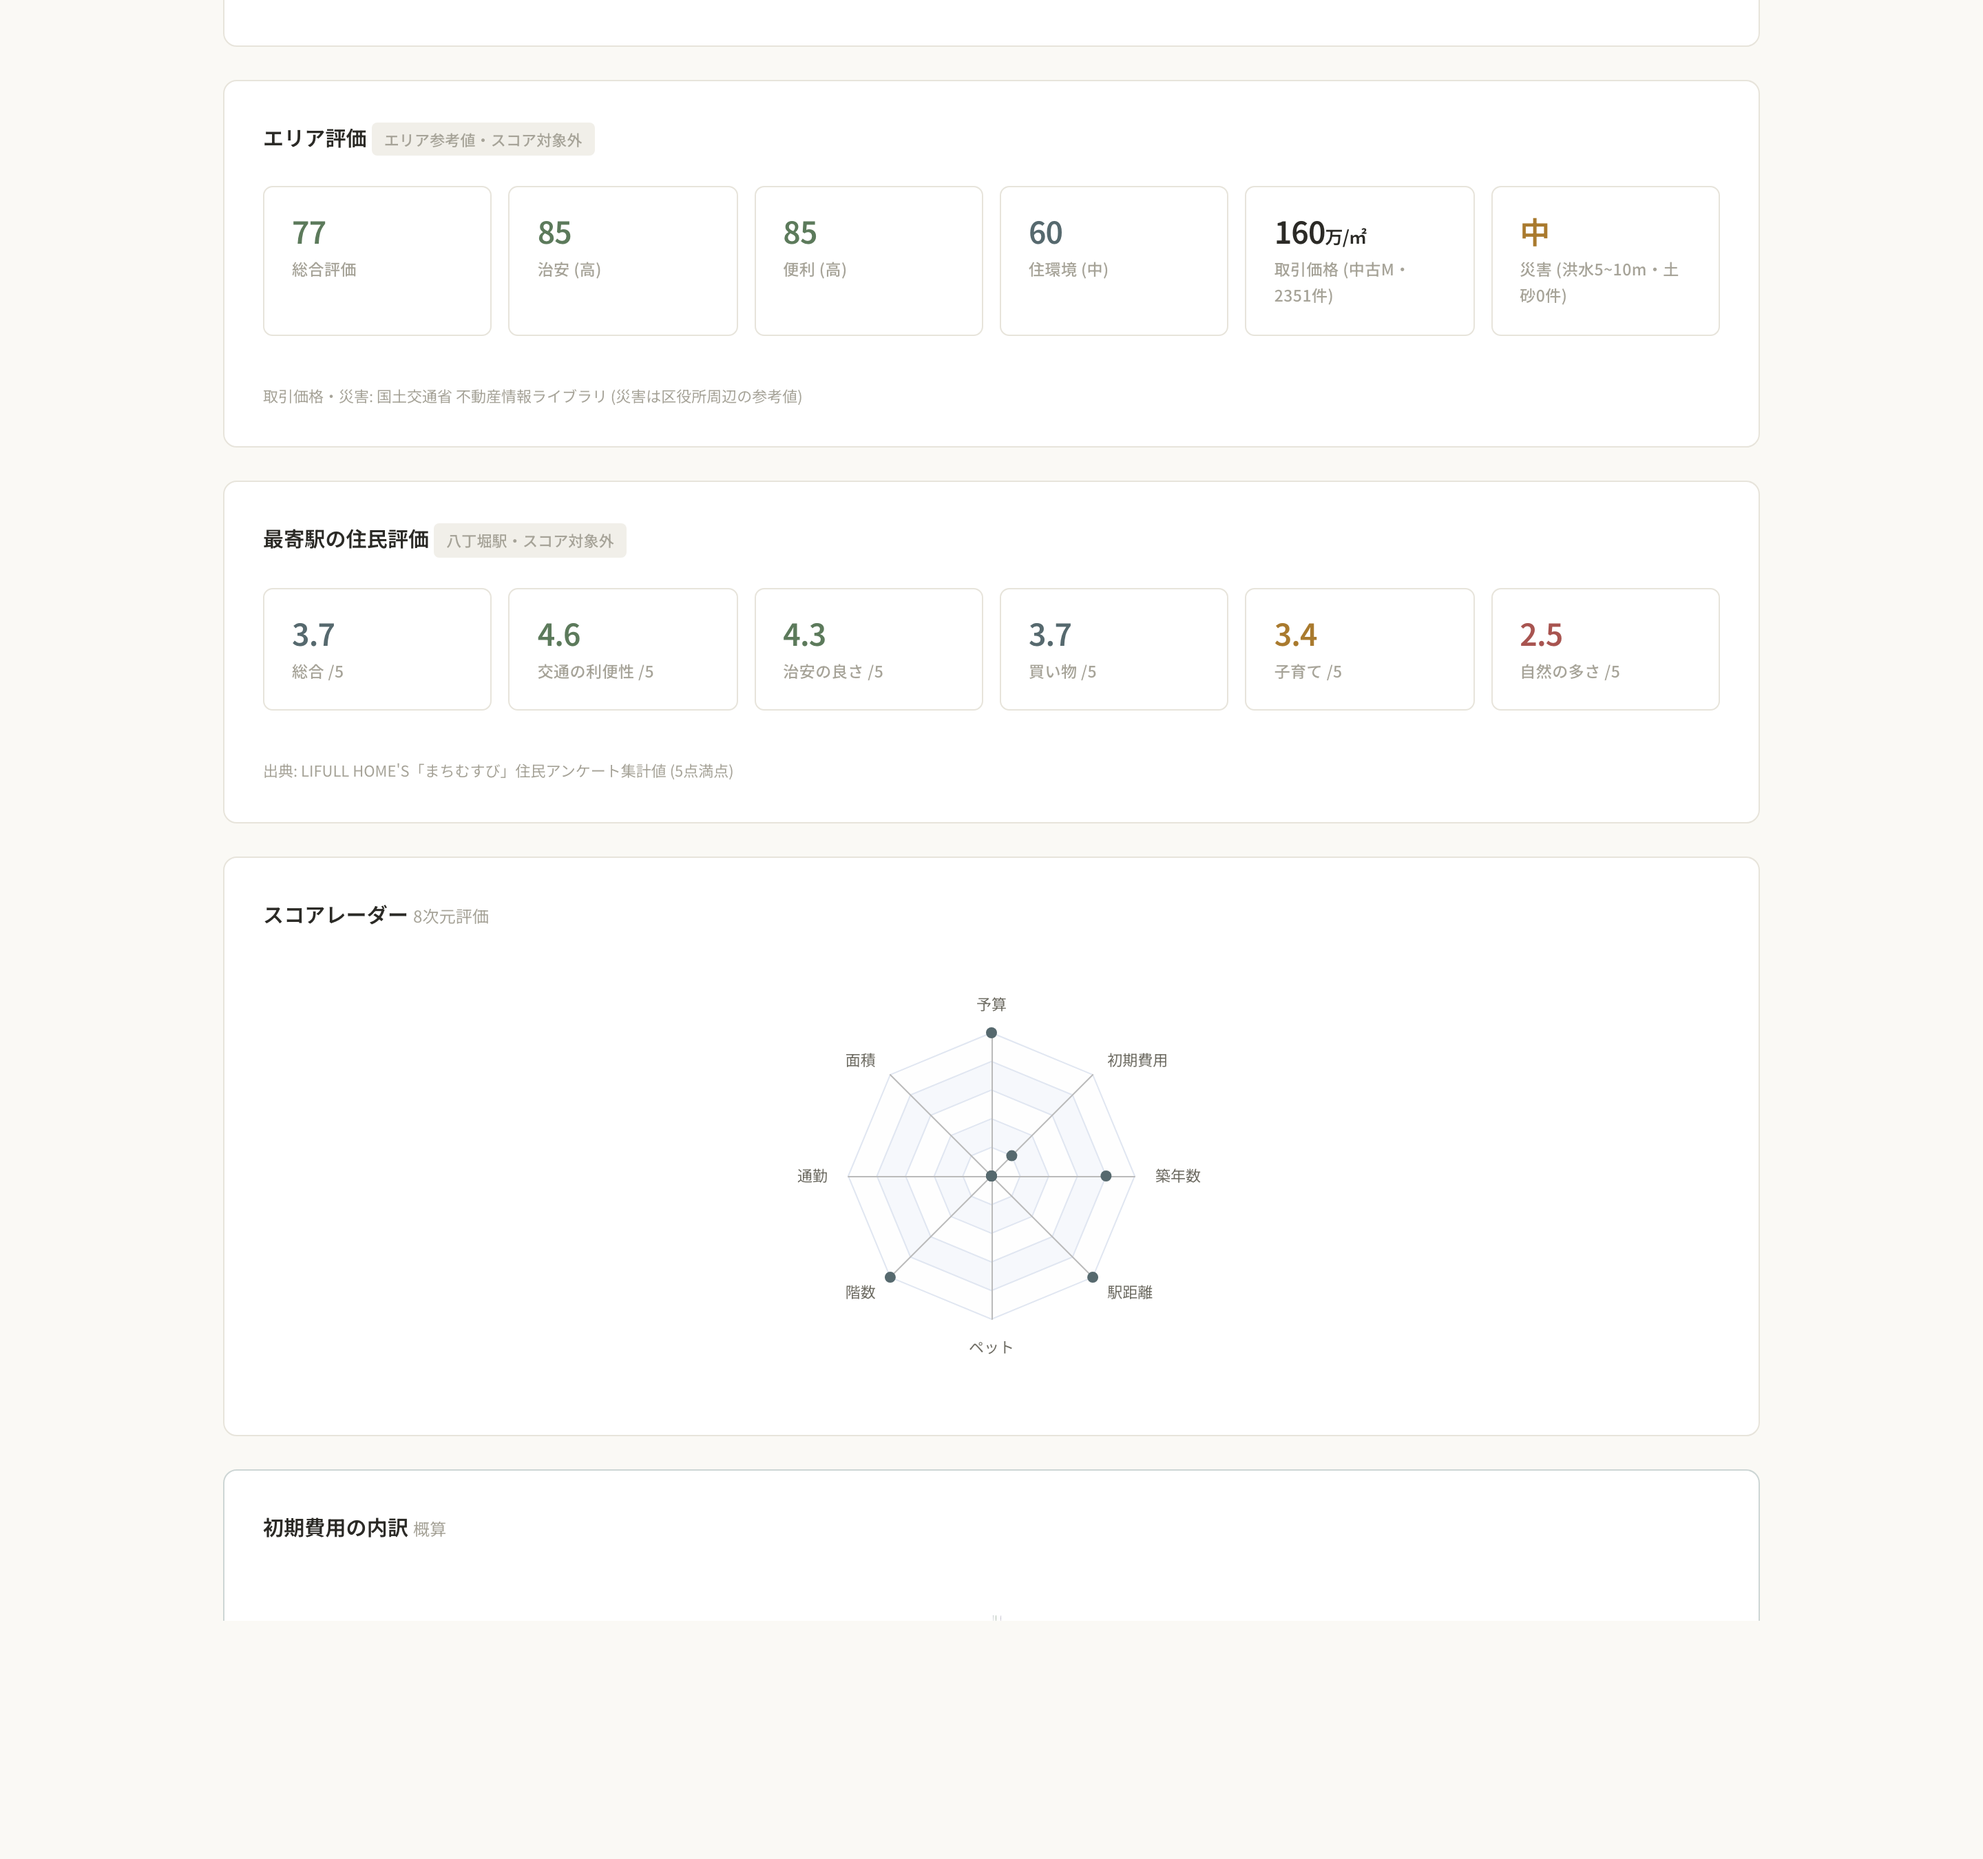
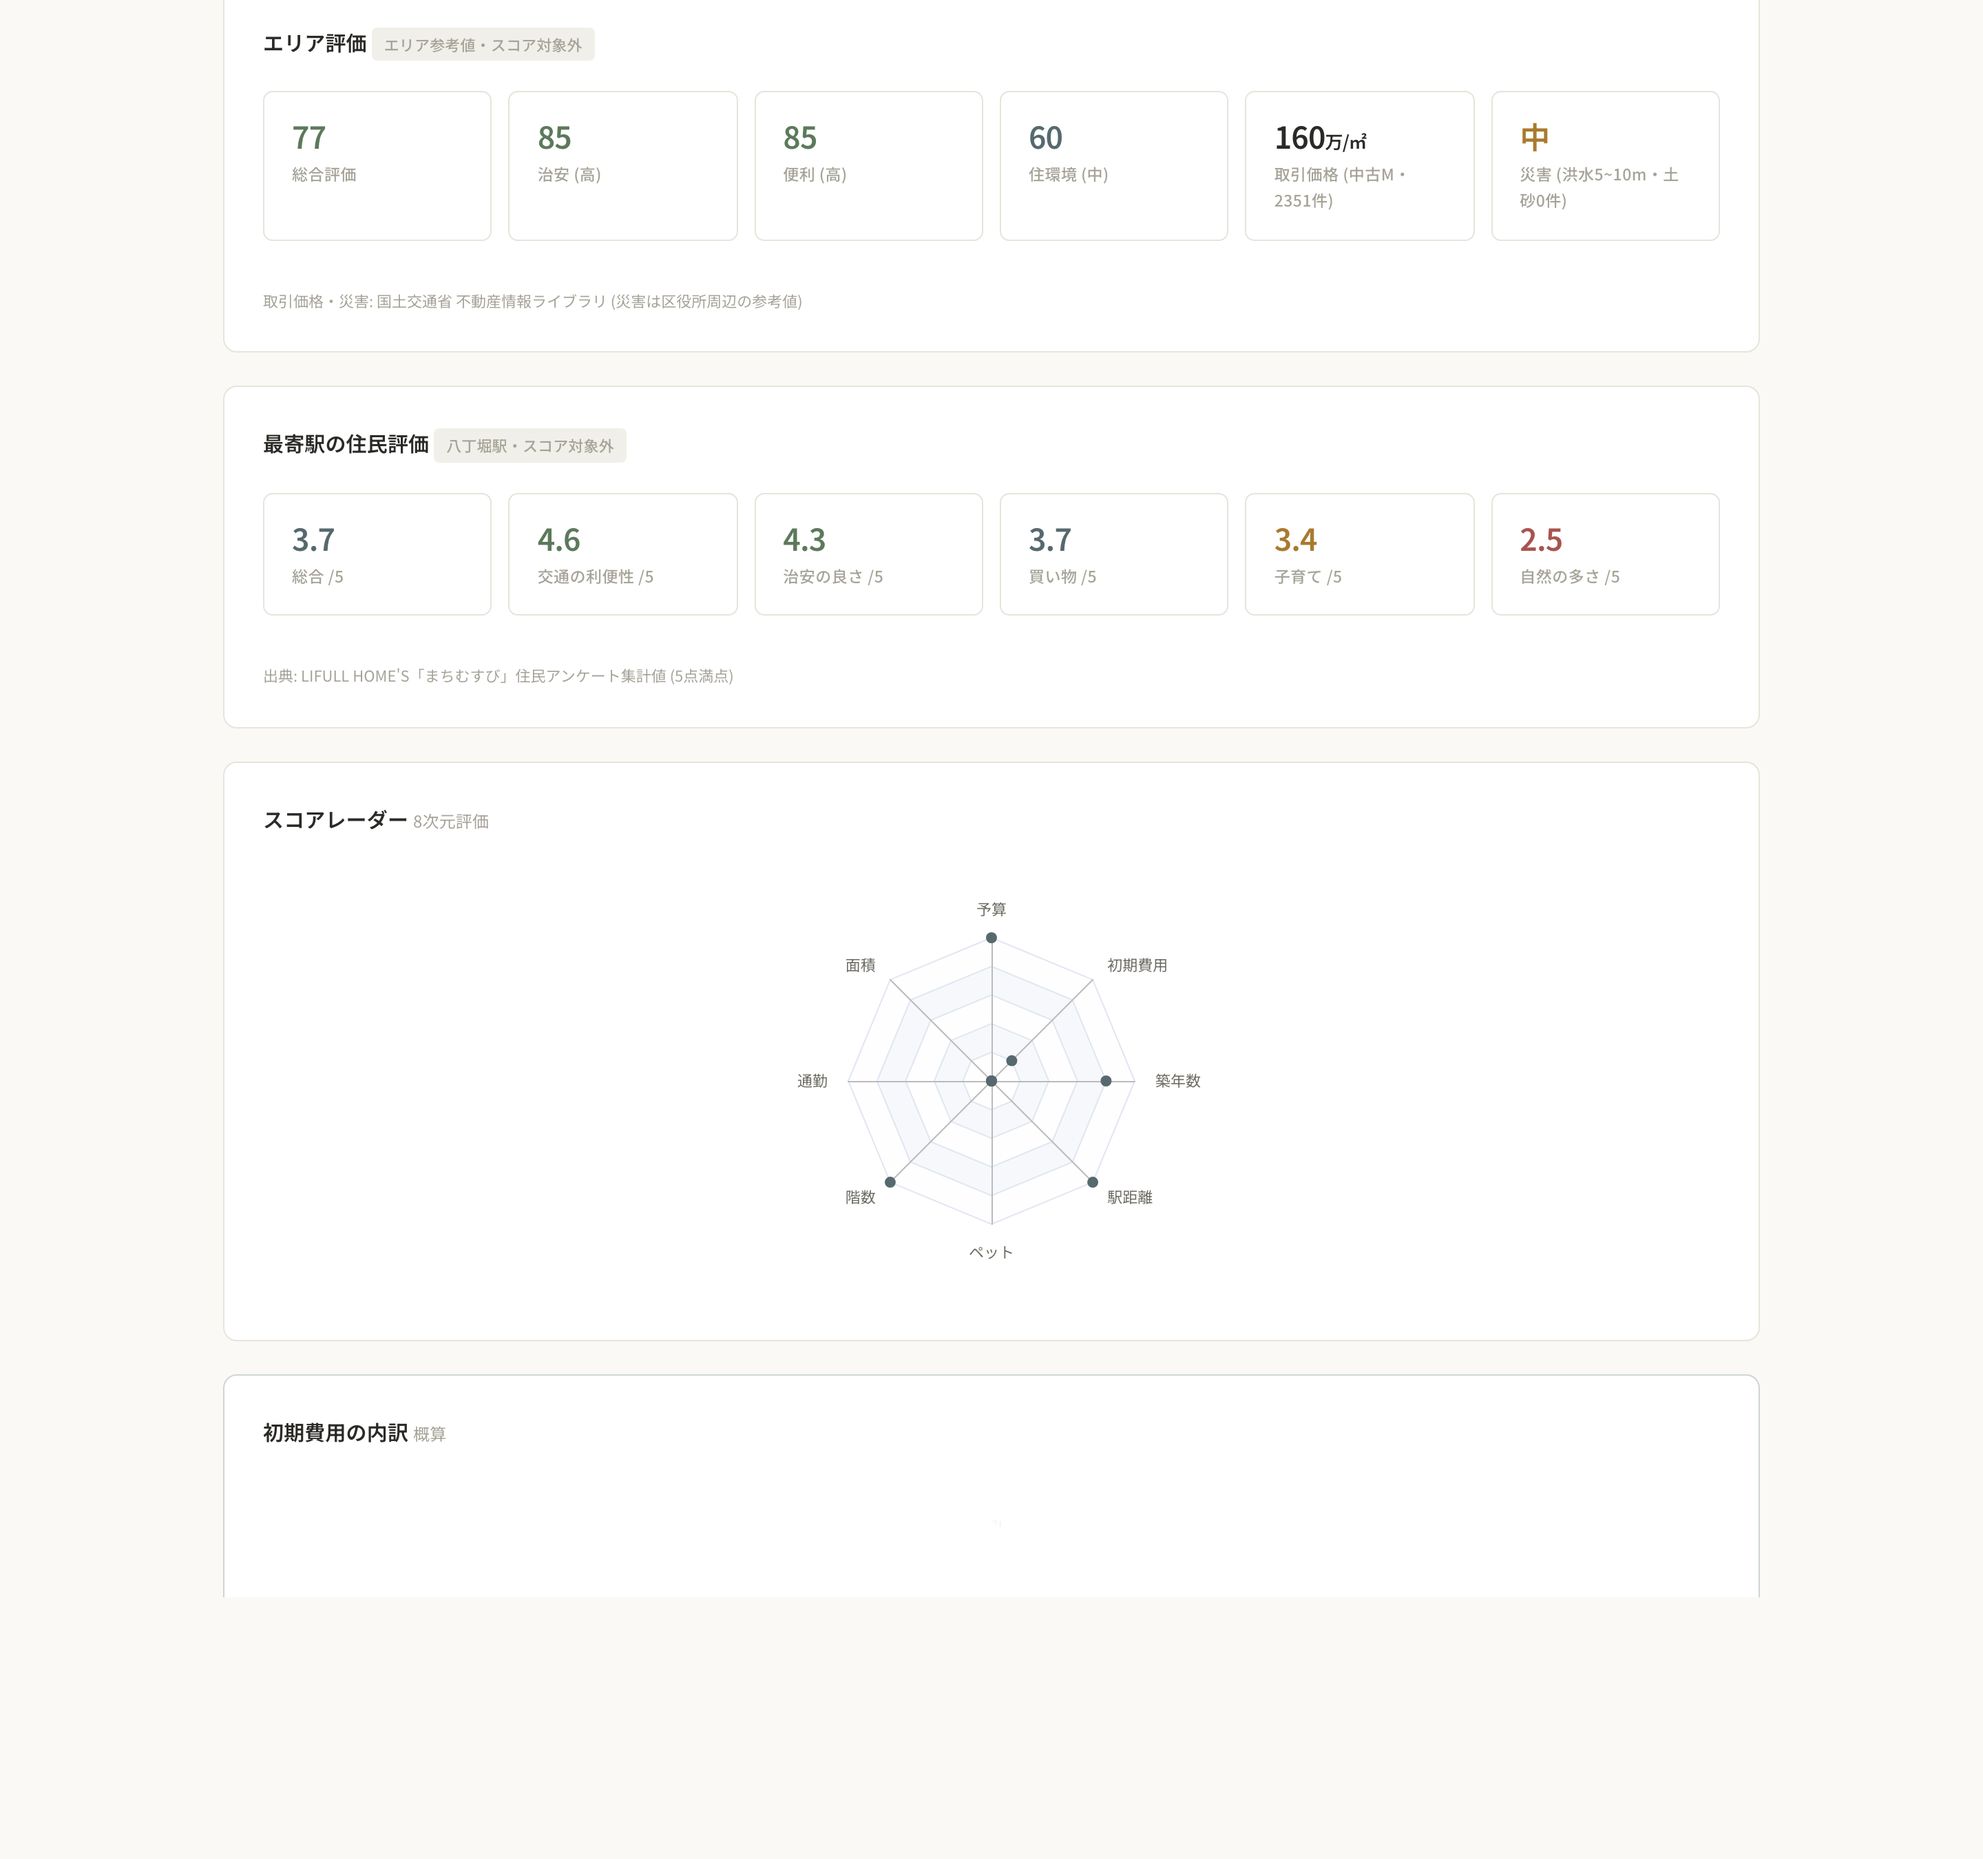
design: 条件クリア full contrast view + N/8 summary
- All 8 wish-conditions now always shown: met = filled 苔緑 check chips,
  unmet = quiet dashed outline in their natural position — the gap reads
  instantly (e.g. 築浅/敷金なし missing)
- Header gains an at-a-glance tally: 条件クリア 6/8 (count in green)
- README report/pool screenshots refreshed; 76 tests.

diff --git a/static/js/my-list.js b/static/js/my-list.js
@@ -313,20 +313,21 @@ function reportHtml(l, region) {
   const amenityChips = AMENITIES.map(([k, label]) =>
     l[k] ? `<span class="chip on">✓ ${label}</span>` : `<span class="chip off">${label}</span>`).join('');
 
-  // 条件クリア(達成した希望条件)— 前端で listing + prefs から判定
+  // 条件クリア(希望条件の達成状況)— 前端で listing + prefs から判定, 全項目を対照表示
   const P = (state.data && state.data.prefs) || {};
-  const achievements = [];
-  if (l.total_monthly_cost && l.total_monthly_cost <= (P.max_total_monthly_cost || 140000)) achievements.push('予算内');
-  if (l.total_monthly_cost && l.region_avg_rent && l.total_monthly_cost < l.region_avg_rent) achievements.push('コスパ良');
-  if (l.area_m2 && l.area_m2 >= (P.ideal_area_m2 || 40)) achievements.push('広め');
-  if (l.building_age != null && l.building_age <= 10) achievements.push('築浅');
-  if (l.walk_minutes != null && l.walk_minutes <= 10) achievements.push('駅徒歩10分以内');
-  if (l.floor != null && l.floor >= 3) achievements.push('3階以上');
-  if (l.key_money === 0) achievements.push('礼金なし');
-  if (l.deposit === 0) achievements.push('敷金なし');
-  const achievementChips = achievements.length
-    ? achievements.map(t => `<span class="chip on">✓ ${t}</span>`).join('')
-    : '<span class="chip off">該当なし</span>';
+  const ACHV = [
+    ['予算内', !!(l.total_monthly_cost && l.total_monthly_cost <= (P.max_total_monthly_cost || 140000))],
+    ['コスパ良', !!(l.total_monthly_cost && l.region_avg_rent && l.total_monthly_cost < l.region_avg_rent)],
+    ['広め', !!(l.area_m2 && l.area_m2 >= (P.ideal_area_m2 || 40))],
+    ['築浅', l.building_age != null && l.building_age <= 10],
+    ['駅徒歩10分以内', l.walk_minutes != null && l.walk_minutes <= 10],
+    ['3階以上', l.floor != null && l.floor >= 3],
+    ['礼金なし', l.key_money === 0],
+    ['敷金なし', l.deposit === 0],
+  ];
+  const achvOk = ACHV.filter(a => a[1]).length;
+  const achievementChips = ACHV.map(([t, ok]) =>
+    ok ? `<span class="chip on">✓ ${t}</span>` : `<span class="chip off">${t}</span>`).join('');
 
   const isFav = !!l.fav_status;
   const favBtn = `<button class="btn ${isFav ? 'btn-good' : 'btn-outline'}" id="report-fav" data-id="${l.id}" data-favid="${l.fav_status_id || ''}">
@@ -359,7 +360,7 @@ function reportHtml(l, region) {
       </div>
       ${metrics}
       <div style="margin-top:16px;">
-        <div style="font-size:12px;font-weight:600;color:var(--text-muted);margin-bottom:8px;">条件クリア</div>
+        <div style="font-size:12px;font-weight:600;color:var(--text-muted);margin-bottom:8px;">条件クリア <span style="color:var(--good);">${achvOk}</span><span style="font-weight:400;">/${ACHV.length}</span></div>
         ${achievementChips}
       </div>
       <div style="margin-top:16px;">
